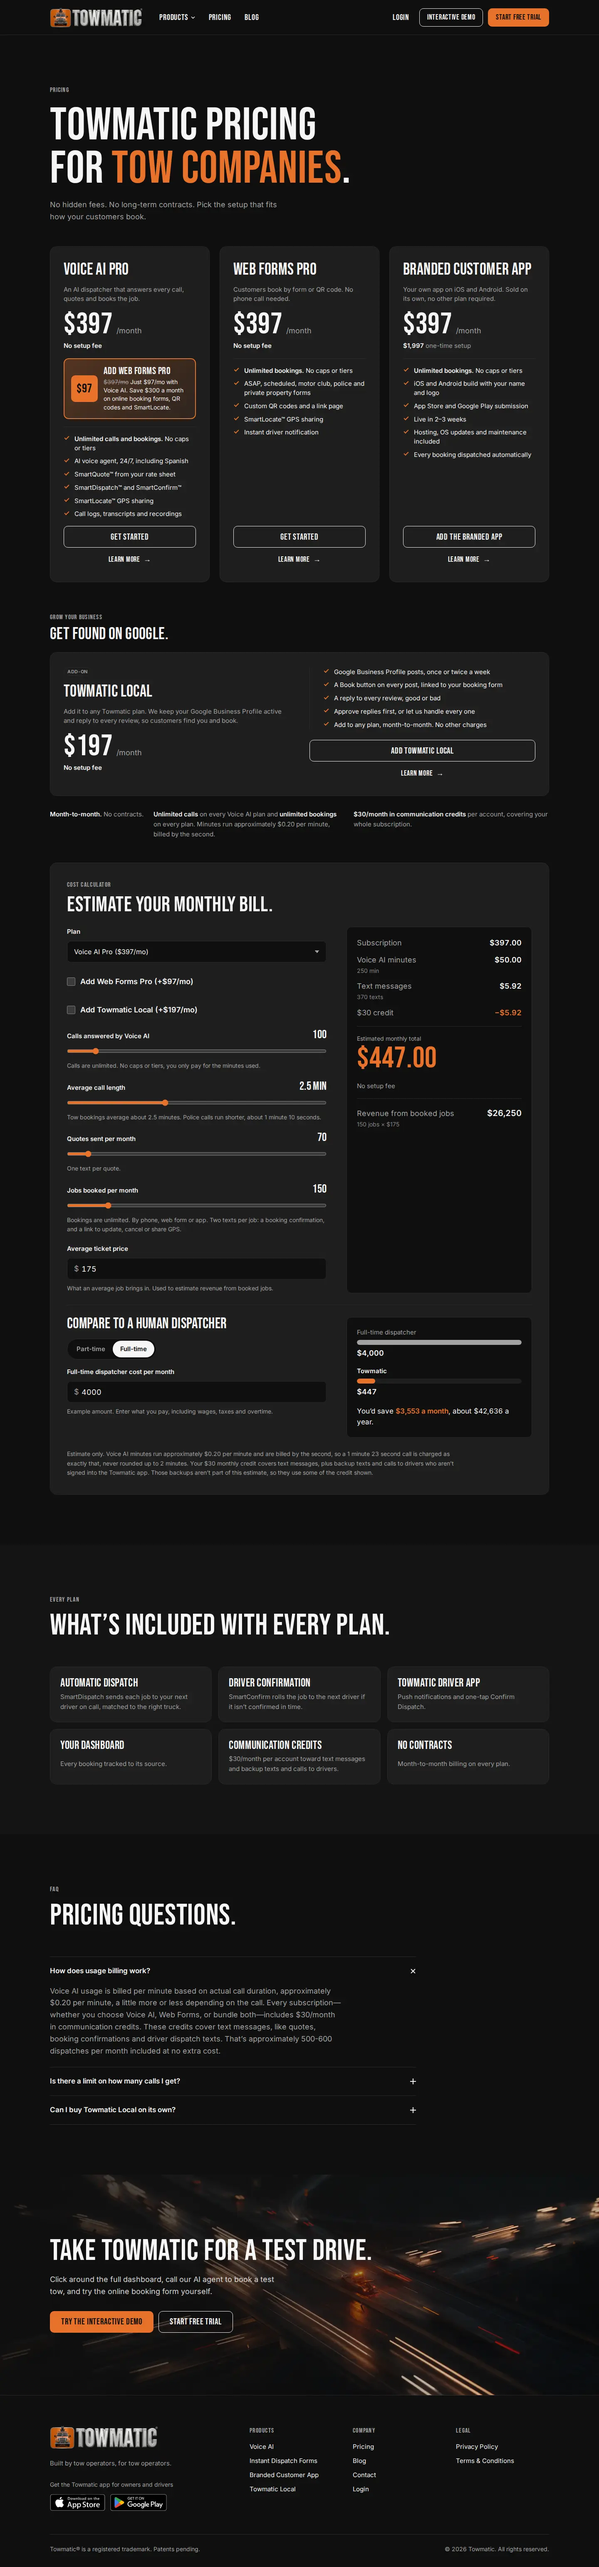
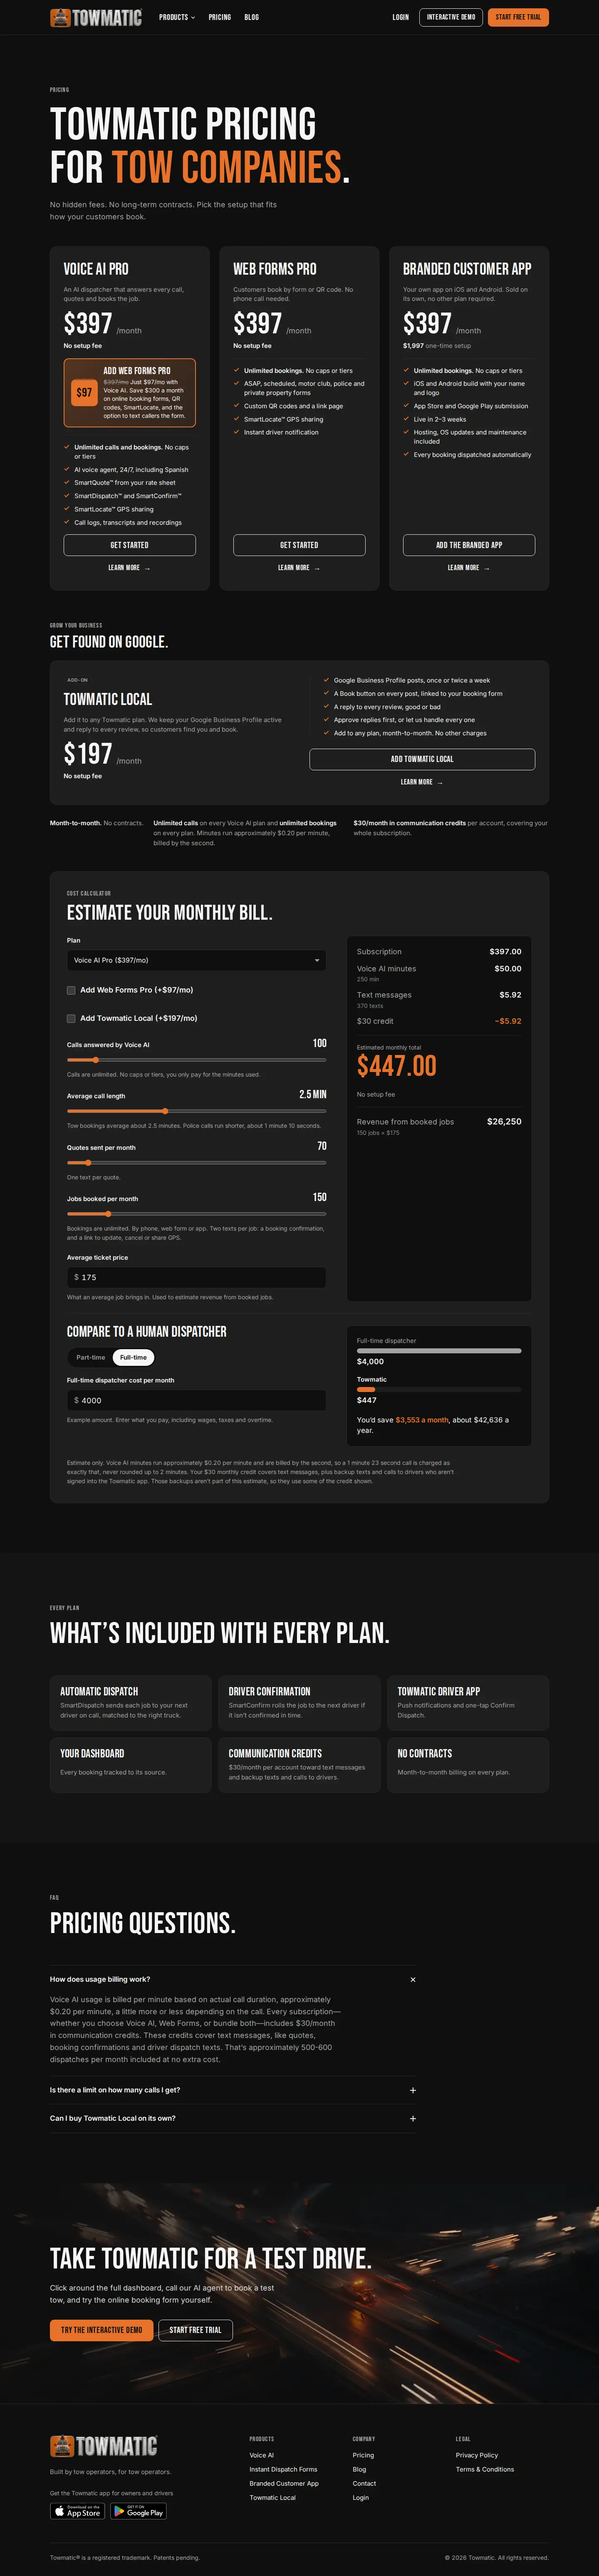
Voice AI: 'Not everyone wants to talk to AI' caller's-choice section and FAQ
Callers can get the Instant Dispatch Form by text or keep booking on the call
(owner data: about half choose the form). New va-choice image (nano-banana-pro),
Voice AI and homepage FAQ, homepage tab line, Pricing add-on mention.

Claude-Session: https://claude.ai/code/session_01QozjXnkBDgD25Ken8NMvP1

diff --git a/website/ai-voice-agent-tow-dispatch.html b/website/ai-voice-agent-tow-dispatch.html
@@ -26,6 +26,14 @@
   "mainEntity": [
     {
       "@type": "Question",
+      "name": "What if my customers don’t want to talk to an AI?",
+      "acceptedAnswer": {
+        "@type": "Answer",
+        "text": "They don’t have to. When someone calls for a tow, your agent asks: “I can text you an instant dispatch form, or we can continue here. What would you like to do?” About half of callers choose the form. The rest finish booking right on the call. Either way, the job lands with your next driver. Texting the form uses Web Forms Pro, a $97/mo add-on with Voice AI Pro."
+      }
+    },
+    {
+      "@type": "Question",
       "name": "How does Voice AI price a tow?",
       "acceptedAnswer": {
         "@type": "Answer",
@@ -237,8 +245,23 @@
     </div>
   </section>
 
+  <!-- Feature: caller's choice (owner data: about half of callers choose the texted form) -->
+  <section class="section section--alt feature feature--flip" aria-labelledby="fc-title">
+    <div class="container feature__grid">
+      <div class="feature__copy reveal">
+        <p class="eyebrow">Their choice</p>
+        <h2 class="feature__title" id="fc-title">Not everyone wants to talk to AI. They don’t have to.</h2>
+        <p class="feature__line">When someone calls for a tow, your agent offers to text them your Instant Dispatch Form or keep going on the call. About half of callers choose the form. The rest finish booking right on the call. Either way, the job lands with your next driver.</p>
+        <p class="feature__note">Uses Web Forms Pro, a $97/mo add-on with Voice AI Pro.</p>
+      </div>
+      <div class="feature__visual reveal">
+        <img class="shot shot--phone" src="images/va-choice.webp" alt="A phone at night during a call with Your Tow Co., showing a text with the link to book a tow, the customer replying Got it, booking now, and a reply that a driver is dispatched as soon as they submit" width="1000" height="1340" loading="lazy" decoding="async">
+      </div>
+    </div>
+  </section>
+
   <!-- Feature 2: SmartQuote -->
-  <section class="section section--alt feature feature--flip" aria-labelledby="f2-title">
+  <section class="section feature" aria-labelledby="f2-title">
     <div class="container feature__grid">
       <div class="feature__copy reveal">
         <p class="eyebrow">SmartQuote</p>
@@ -252,7 +275,7 @@
   </section>
 
   <!-- Feature 3: call log -->
-  <section class="section feature" aria-labelledby="f3-title">
+  <section class="section section--alt feature feature--flip" aria-labelledby="f3-title">
     <div class="container feature__grid">
       <div class="feature__copy reveal">
         <p class="eyebrow">Call history</p>
@@ -266,7 +289,7 @@
   </section>
 
   <!-- Detail block: call types -->
-  <section class="section section--alt" aria-labelledby="types-title">
+  <section class="section" aria-labelledby="types-title">
     <div class="container">
       <header class="section-head reveal">
         <p class="eyebrow">You decide what it handles</p>
@@ -287,13 +310,18 @@
   </section>
 
   <!-- FAQ — answers confirmed by the owner -->
-  <section class="section" aria-labelledby="faq-title">
+  <section class="section section--alt" aria-labelledby="faq-title">
     <div class="container">
       <header class="section-head reveal">
         <p class="eyebrow">FAQ</p>
         <h2 class="section-title" id="faq-title">Voice AI questions.</h2>
       </header>
       <div class="faq reveal">
+        <details class="faq__item">
+          <summary>What if my customers don’t want to talk to an AI?</summary>
+          <p>They don’t have to. When someone calls for a tow, your agent asks: “I can text you an instant dispatch form, or we can continue here. What would you like to do?” About half of callers choose the form. The rest finish booking right on the call. Either way, the job lands with your next driver.</p>
+          <p>Texting the form uses Web Forms Pro, a $97/mo add-on with Voice AI Pro.</p>
+        </details>
         <details class="faq__item">
           <summary>How does Voice AI price a tow?</summary>
           <p>SmartQuote prices each call from your real rate sheet: mileage, fees, vehicle class and time of day. The quote is texted to the customer automatically. Your driver gets nothing until the customer replies YES.</p>

diff --git a/website/index.html b/website/index.html
@@ -104,6 +104,14 @@
     },
     {
       "@type": "Question",
+      "name": "What if my customers don’t want to talk to an AI?",
+      "acceptedAnswer": {
+        "@type": "Answer",
+        "text": "They don’t have to. When someone calls for a tow, your agent asks: “I can text you an instant dispatch form, or we can continue here. What would you like to do?” About half of callers choose the form. The rest finish booking right on the call. Either way, the job lands with your next driver. Texting the form uses Web Forms Pro, a $97/mo add-on with Voice AI Pro."
+      }
+    },
+    {
+      "@type": "Question",
       "name": "What if a customer calls to cancel a tow?",
       "acceptedAnswer": {
         "@type": "Answer",
@@ -345,7 +353,7 @@
           </div>
           <div class="platform__copy">
             <h3 class="platform__headline">Answers every call, even at 3AM.</h3>
-            <p class="platform__line">Natural-sounding AI trained on towing. It quotes from your real rate sheet and books the job. Unlimited calls, no caps.</p>
+            <p class="platform__line">Natural-sounding AI trained on towing. It quotes from your real rate sheet and books the job. Callers who’d rather tap can get the booking form by text instead. Unlimited calls, no caps.</p>
             <div class="platform__links">
               <a class="link-more" href="ai-voice-agent-tow-dispatch.html">Learn more <span aria-hidden="true">→</span></a>
             </div>
@@ -479,6 +487,11 @@
           <p>Ask yourself two questions: Is someone watching it 24/7? And does it send the job straight to a driver?</p>
           <p>Most website forms just send an email to an inbox. The request sits there until someone checks it, and by then the customer has already called the next tow company.</p>
           <p>An Instant Dispatch Form gets the customer’s exact location and dispatches your next driver in seconds, with an instant quote from your rate sheet first if they want one. Any time of day, with nobody watching it. If your form doesn’t do that, it’s costing you tows and service calls.</p>
+        </details>
+        <details class="faq__item">
+          <summary>What if my customers don’t want to talk to an AI?</summary>
+          <p>They don’t have to. When someone calls for a tow, your agent asks: “I can text you an instant dispatch form, or we can continue here. What would you like to do?” About half of callers choose the form. The rest finish booking right on the call. Either way, the job lands with your next driver.</p>
+          <p>Texting the form uses Web Forms Pro, a $97/mo add-on with Voice AI Pro.</p>
         </details>
         <details class="faq__item">
           <summary>What if a customer calls to cancel a tow?</summary>

diff --git a/website/pricing.html b/website/pricing.html
@@ -245,7 +245,7 @@
             <span class="plan__bonus-badge">$97</span>
             <div class="plan__bonus-copy">
               <p class="plan__bonus-title">Add Web Forms Pro</p>
-              <p class="plan__bonus-text"><s>$397/mo</s> Just $97/mo with Voice AI. Save $300 a month on online booking forms, QR codes and SmartLocate.</p>
+              <p class="plan__bonus-text"><s>$397/mo</s> Just $97/mo with Voice AI. Save $300 a month on online booking forms, QR codes, SmartLocate, and the option to text callers the form.</p>
             </div>
           </div>
           <ul class="plan__list">

diff --git a/website/styles.css b/website/styles.css
@@ -1118,6 +1118,7 @@ main:focus { outline: none; }
   max-width: 32rem;
   color: var(--color-text-muted);
 }
+.feature__note { margin-top: 12px; font-size: var(--fs-small); color: var(--color-text-muted); }
 
 @media (min-width: 960px) {
   .feature__grid { grid-template-columns: 1fr 1fr; gap: 80px; }

diff --git a/website/HANDOFF.md b/website/HANDOFF.md
@@ -132,7 +132,7 @@ All images are WebP in `images/` and lazy-loaded below the first screen. The her
 | `web-forms.webp` | Web Forms hero | kie.ai, seedream-5-pro |
 | `native-app.webp` | Branded App hero | kie.ai, seedream-5-pro |
 | `tab-voice.webp`, `tab-forms.webp`, `tab-app.webp`, `tab-dispatch.webp` | Homepage platform tabs | kie.ai, nano-banana-pro |
-| `va-voice.webp`, `va-quote.webp`, `va-log.webp` | Voice AI feature blocks | kie.ai, nano-banana-pro |
+| `va-voice.webp`, `va-choice.webp`, `va-quote.webp`, `va-log.webp` | Voice AI feature blocks | kie.ai, nano-banana-pro |
 | `wf-quote.webp`, `wf-locate.webp`, `wf-rotation.webp` | Web Forms feature blocks | kie.ai, nano-banana-pro |
 | `app-home.webp`, `app-book.webp`, `app-driver.webp` | Branded App feature blocks | kie.ai, nano-banana-pro |
 | `local.webp`, `local-post.webp`, `local-review.webp` | Towmatic Local hero and feature blocks | kie.ai, nano-banana-pro |
@@ -286,6 +286,12 @@ These are intentional. Build them as shown in the prototype.
 
 - **No "live the same day" claim** for Instant Dispatch Forms anywhere (removed at the owner's request).
 - **Start Free Trial** buttons go to `/signup`.
+- **"Not everyone wants to talk to AI" (caller's choice):** when someone calls for a tow, the Voice AI agent asks "I
+  can text you an instant dispatch form, or we can continue here. What would you like to do?" Owner data: about half
+  of callers choose the form and the rest finish booking on the call. Shown as a "Their choice" section on the Voice AI
+  page (`va-choice.webp`), a Voice AI and homepage FAQ ("What if my customers don't want to talk to an AI?"), a line in
+  the homepage Voice AI tab, and the Web Forms Pro add-on box on Pricing. It uses Web Forms Pro ($97/mo add-on). Always
+  say the other half finish booking on the call, so it never reads as callers hanging up.
 - **Dispatch rules by truck type:** owners set each truck to take light, medium and heavy duty jobs **Always, Only
   If Needed, or Never** (use these exact setting names). Shown in a homepage FAQ and a Web Forms FAQ ("Can I control
   which trucks get which jobs?"), the homepage SmartDispatch tab, the Web Forms dispatch section and the Pricing
